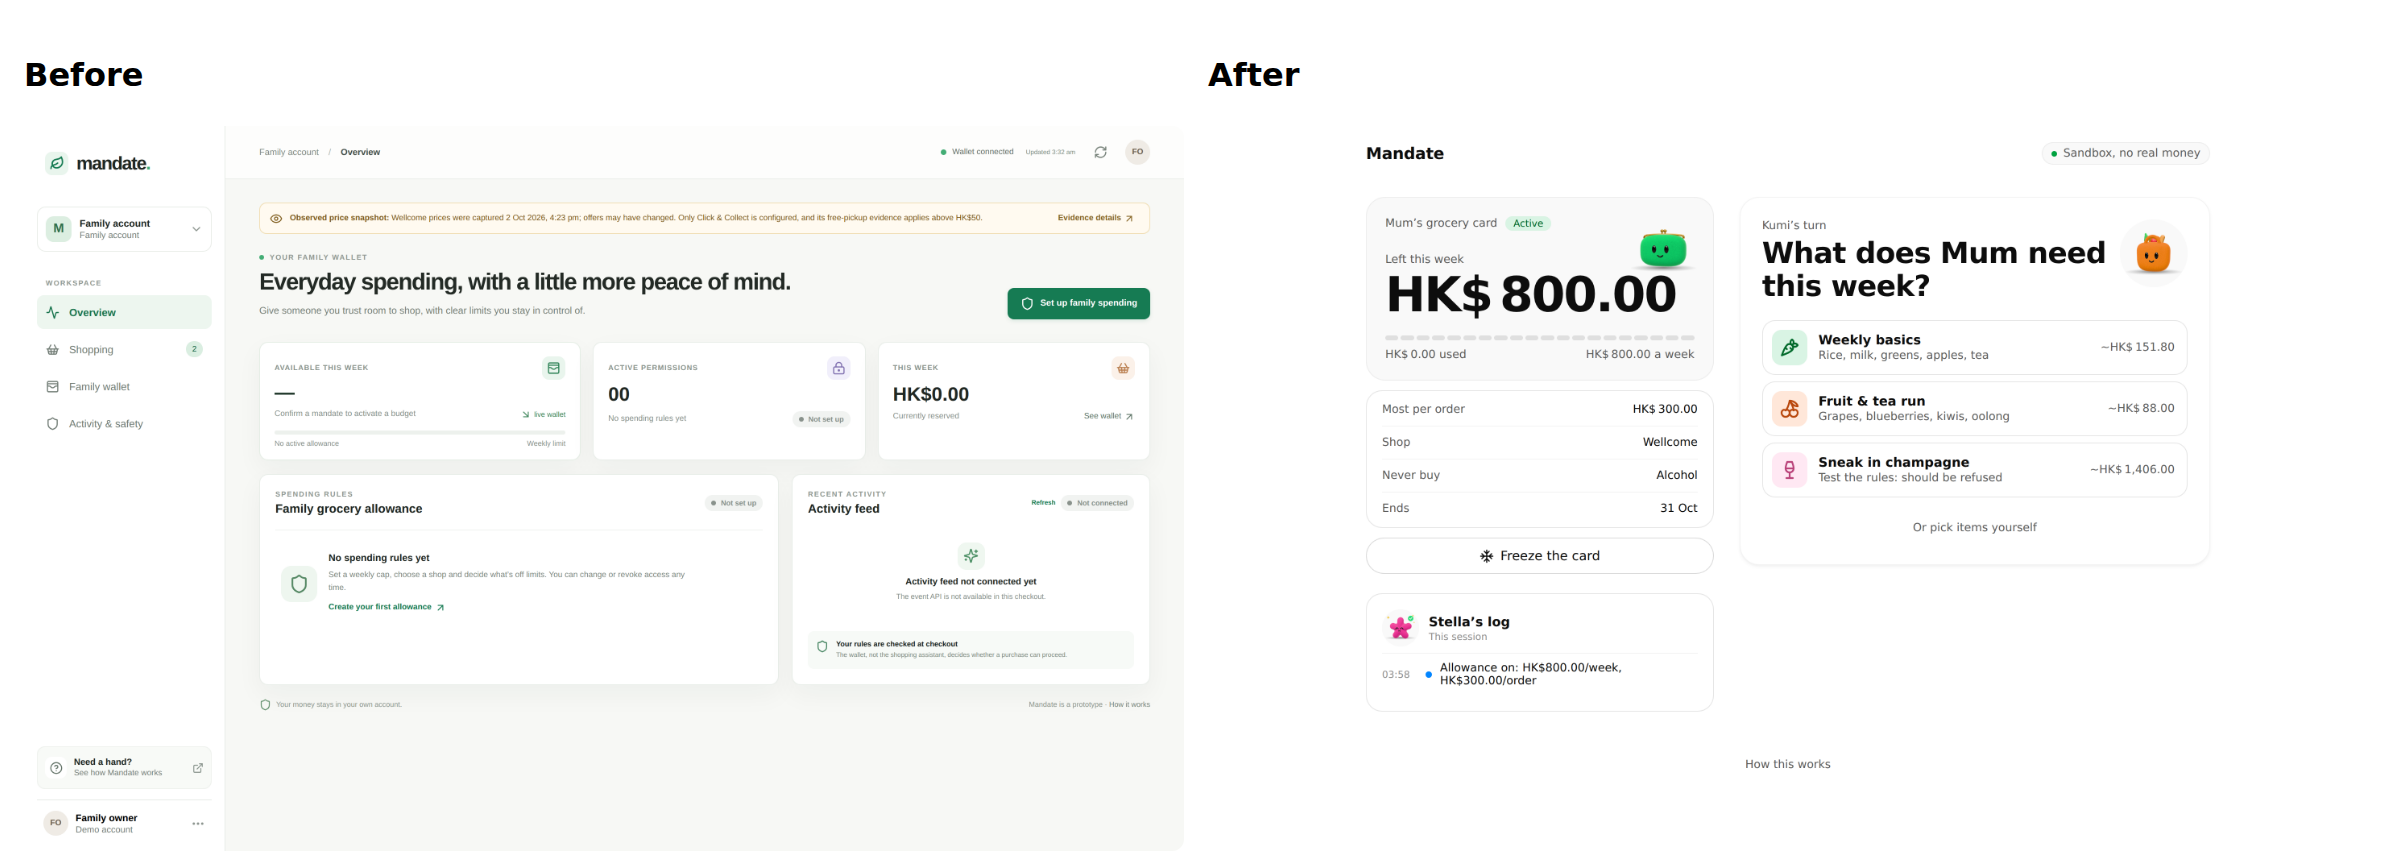
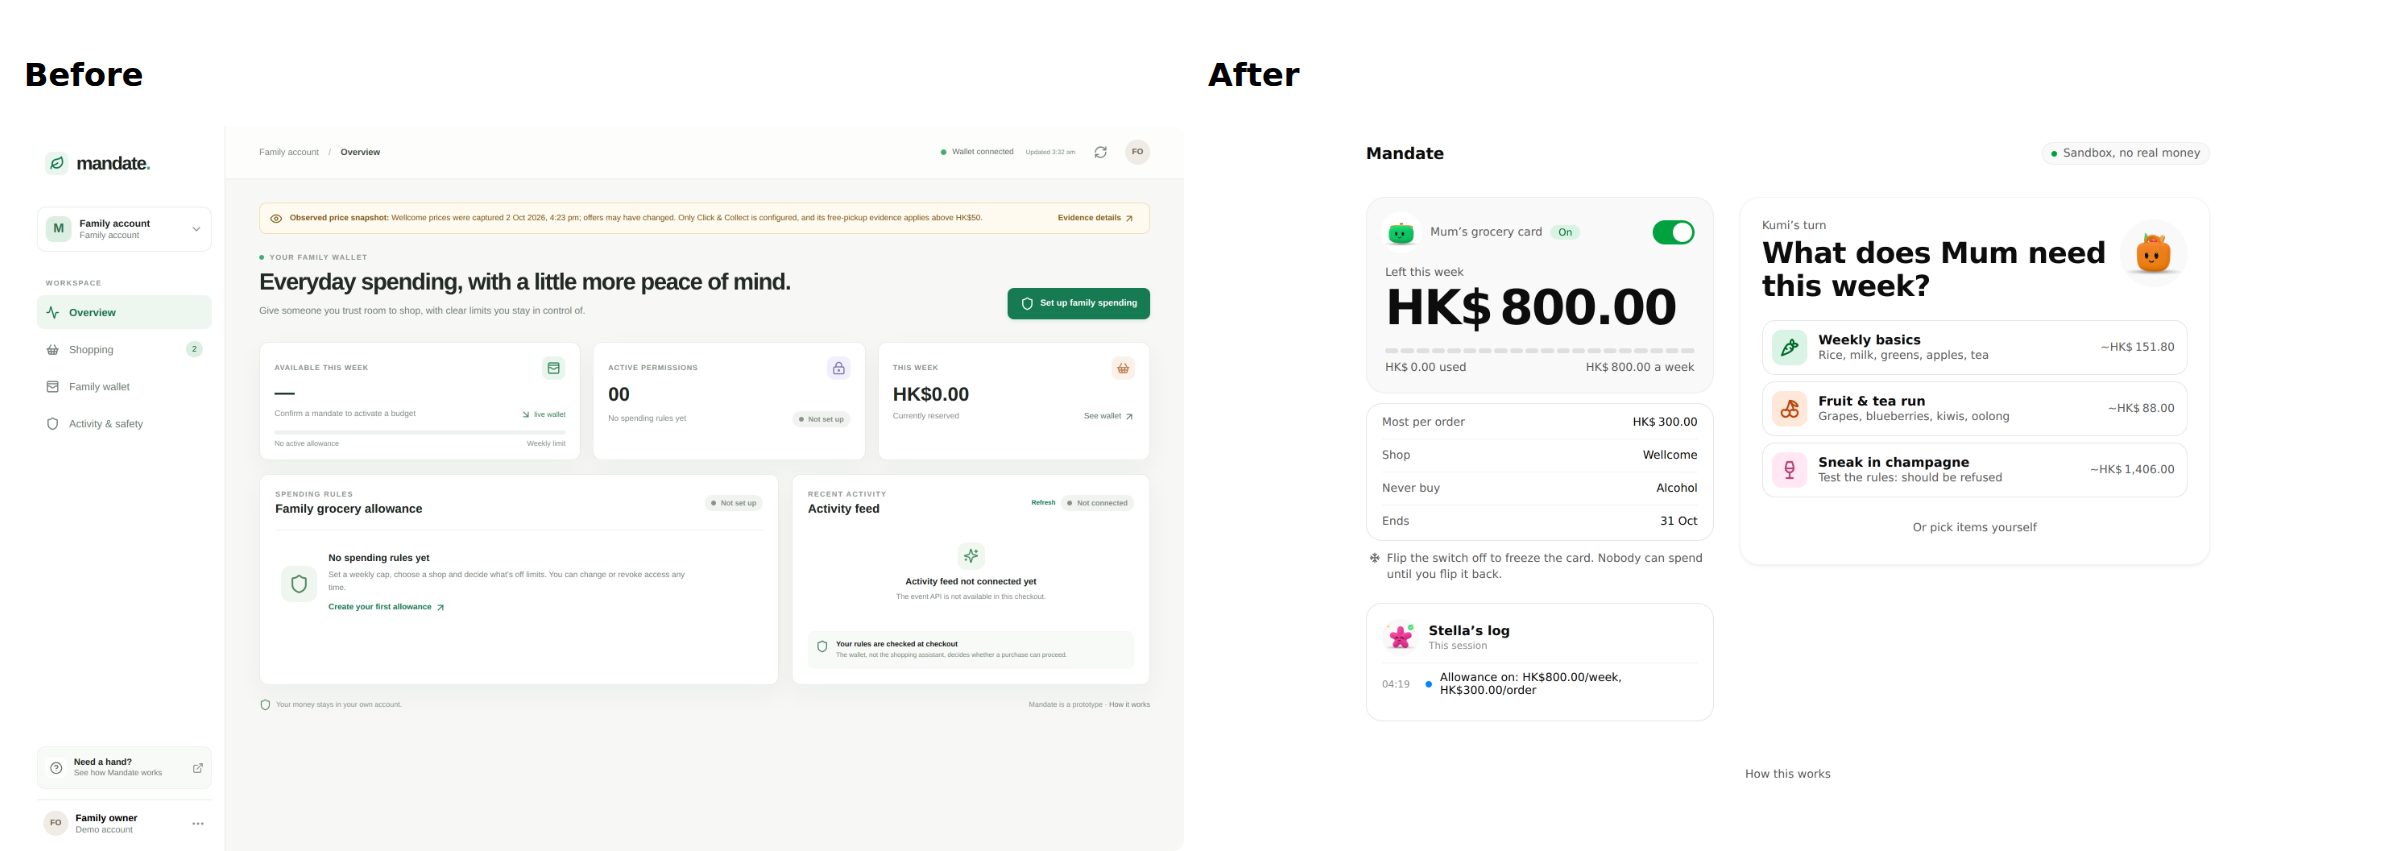
web: use an on/off switch for Mum's card
One switch on the card replaces the freeze and start-again buttons:
off revokes the mandate, on re-activates it with the same rules. The
setup form uses the same switch to turn the card on.

Claude-Session: https://claude.ai/code/session_01LXVsyNnmyhbWTy9EMwCknp

diff --git a/apps/web/src/simple/SimpleApp.tsx b/apps/web/src/simple/SimpleApp.tsx
@@ -81,6 +81,10 @@ function Avatar({ name, state, size = 64, bob = false }: { name: Mascot; state: 
   return <img className={`m2-avatar${bob ? ' m2-bob' : ''}`} src={`/agents/${name}-${state}.png`} alt="" width={size} height={size} />;
 }
 
+function Switch({ on, label, disabled, onChange }: { on: boolean; label: string; disabled?: boolean; onChange: () => void }) {
+  return <button type="button" role="switch" aria-checked={on} aria-label={label} className={`m2-switch${on ? ' on' : ''}`} disabled={disabled} onClick={onChange}><i /></button>;
+}
+
 function Sticker({ name, state, size = 88, tilt = -6 }: { name: Mascot; state: string; size?: number; tilt?: number }) {
   return <span className={`m2-sticker ${name}`} style={{ width: size, height: size, transform: `rotate(${tilt}deg)` }}><img src={`/agents/${name}-${state}.png`} alt="" /></span>;
 }
@@ -170,11 +174,12 @@ export default function SimpleApp() {
   const spent = (period?.paid_minor ?? 0) + (period?.reserved_minor ?? 0);
   const ratio = limit ? Math.min(1, spent / limit) : 0;
 
-  async function activate() {
+  /** Turns the card on with the setup form's values, or with a frozen card's previous rules. */
+  async function activate(previous?: Policy) {
     setError('');
-    const weeklyMinor = Math.round(Number(weekly) * 100);
-    const orderMinor = Math.round(Number(perOrder) * 100);
-    const askMinor = askAbove.trim() ? Math.round(Number(askAbove) * 100) : null;
+    const weeklyMinor = previous ? previous.period_limits[0]?.limit_minor ?? 0 : Math.round(Number(weekly) * 100);
+    const orderMinor = previous ? previous.per_order_limit_minor : Math.round(Number(perOrder) * 100);
+    const askMinor = previous ? previous.approval_above_minor : askAbove.trim() ? Math.round(Number(askAbove) * 100) : null;
     if (!(weeklyMinor > 0) || !(orderMinor > 0) || (askMinor !== null && !(askMinor > 0))) { setError('Use whole HK$ amounts above zero.'); return; }
     const policy: Policy = {
       currency: 'HKD',
@@ -364,7 +369,8 @@ export default function SimpleApp() {
           <div className="m2-ledger-row fixed"><span>Shop</span><b>Wellcome</b></div>
           <div className="m2-ledger-row fixed"><span>Never buy</span><b>Alcohol</b></div>
           <div className="m2-ledger-row fixed"><span>Lasts</span><b>4 weeks</b></div>
-          <button className="m2-cta" onClick={() => void activate()} disabled={busy === 'activate' || online === false}>{busy === 'activate' ? 'Switching on…' : 'Switch on Mum’s card'}<ArrowRight size={18} /></button>
+          <div className="m2-switch-row"><span><b>Mum’s card</b><small>{busy === 'activate' ? 'Switching on…' : 'Off. Flip it on to start.'}</small></span>
+            <Switch on={busy === 'activate'} label="Switch on Mum’s card" disabled={busy === 'activate' || online === false} onChange={() => void activate()} /></div>
           {setupOpen && mandate && <button className="m2-link" onClick={() => setSetupOpen(false)}>Back</button>}
         </div>
       </section>
@@ -372,11 +378,12 @@ export default function SimpleApp() {
       <main className="m2-grid">
         <section className="m2-col m2-area-card">
           <div className={`m2-card ${active ? '' : 'frozen'}`}>
-            <div className="m2-card-top"><span>Mum’s grocery card</span><span className="m2-status">{active ? 'Active' : mandate.status === 'expired' ? 'Expired' : 'Frozen'}</span></div>
+            <div className="m2-card-top"><Sticker name="kip" state={kipState} size={52} tilt={0} /><span>Mum’s grocery card</span><span className="m2-status">{busy === 'freeze' ? 'Freezing…' : busy === 'activate' ? 'Switching on…' : active ? 'On' : mandate.status === 'expired' ? 'Expired' : 'Frozen'}</span>
+              <Switch on={busy === 'activate' || (active && busy !== 'freeze')} label={active ? 'Freeze Mum’s card' : 'Switch Mum’s card back on'} disabled={busy === 'freeze' || busy === 'activate' || online === false}
+                onChange={() => void (active ? freeze() : activate(mandate.policy))} /></div>
             <div className="m2-card-amount"><small>{active ? 'Left this week' : 'Spending is off'}</small><b>{active ? hkd(available) : 'HK$ 0'}</b></div>
             <div className="m2-meter" aria-hidden>{Array.from({ length: 20 }, (_, i) => <i key={i} className={i < Math.round(ratio * 20) ? 'on' : ''} />)}</div>
             <div className="m2-card-foot"><span>{hkd(spent)} used</span><span>{hkd(limit)} a week</span></div>
-            <div className="m2-card-sticker"><Sticker name="kip" state={kipState} size={104} tilt={8} /></div>
           </div>
           <dl className="m2-rules">
             <div><dt>Most per order</dt><dd>{hkd(mandate.policy.per_order_limit_minor)}</dd></div>
@@ -385,9 +392,7 @@ export default function SimpleApp() {
             {mandate.policy.approval_above_minor != null && <div><dt>Ask me first above</dt><dd>{hkd(mandate.policy.approval_above_minor)}</dd></div>}
             <div><dt>Ends</dt><dd>{expires}</dd></div>
           </dl>
-          {active
-            ? <button className="m2-freeze" onClick={() => void freeze()} disabled={busy === 'freeze'}><Snowflake size={18} />{busy === 'freeze' ? 'Freezing…' : 'Freeze the card'}</button>
-            : <button className="m2-cta" onClick={() => setSetupOpen(true)}>Start a new allowance<ArrowRight size={18} /></button>}
+          <p className="m2-switch-hint"><Snowflake size={14} />{active ? 'Flip the switch off to freeze the card. Nobody can spend until you flip it back.' : 'Flip the switch to turn the card back on with the same rules.'}</p>
         </section>
 
         <section className="m2-col m2-area-feed">

diff --git a/apps/web/src/simple/simple.css b/apps/web/src/simple/simple.css
@@ -63,17 +63,17 @@ button:disabled{cursor:not-allowed;opacity:.4}
 
 /* Card */
 .m2-card{position:relative;padding:calc(var(--spacing)*6);border-radius:var(--radius-4xl);background:var(--color-surface-secondary);box-shadow:inset 0 0 0 1px var(--color-border-subtle)}
-.m2-card-top{display:flex;align-items:center;gap:10px;font-size:var(--font-text-sm-size);font-weight:var(--font-weight-medium);color:var(--color-text-secondary)}
+.m2-card-top{display:flex;align-items:center;gap:10px;position:relative;z-index:1;font-size:var(--font-text-sm-size);font-weight:var(--font-weight-medium);color:var(--color-text-secondary)}
 .m2-status{padding:2px 10px;border-radius:var(--radius-full);background:var(--color-background-success-soft);color:var(--color-text-success);font-size:12px}
 .frozen .m2-status{background:var(--gray-100);color:var(--color-text-secondary)}
-.m2-card-amount{margin:28px 0 20px}
+.m2-card-amount{margin:22px 0 20px}
 .m2-card-amount small{display:block;font-size:var(--font-text-sm-size);color:var(--color-text-secondary);margin-bottom:6px}
 .m2-card-amount b{display:block;font-weight:var(--font-weight-semibold);font-size:clamp(40px,6vw,var(--font-heading-4xl-size));letter-spacing:-.035em;line-height:1;font-variant-numeric:tabular-nums}
 .frozen .m2-card-amount b{color:var(--color-text-tertiary)}
 .m2-meter{display:grid;grid-template-columns:repeat(20,1fr);gap:3px;margin-bottom:10px}
 .m2-meter i{height:6px;border-radius:var(--radius-full);background:var(--gray-150)}.m2-meter i.on{background:var(--green-500)}
 .m2-card-foot{display:flex;justify-content:space-between;font-size:var(--font-text-sm-size);color:var(--color-text-secondary);font-variant-numeric:tabular-nums}
-.m2-card-sticker{position:absolute;top:14px;right:14px}
+.m2-card-sticker{position:absolute;top:64px;right:14px}
 .m2-card-sticker .m2-sticker{background:transparent;width:96px!important;height:96px!important}
 .m2-rules{margin:0;padding:4px 20px;border-radius:var(--radius-3xl);box-shadow:inset 0 0 0 1px var(--color-border)}
 .m2-rules div{display:flex;justify-content:space-between;gap:10px;padding:12px 0;border-bottom:1px solid var(--color-border-subtle);font-size:var(--font-text-sm-size)}
@@ -147,3 +147,16 @@ button:disabled{cursor:not-allowed;opacity:.4}
 
 @media(max-width:480px){.m2-panel{padding:20px}.m2-card{padding:20px}.m2-setup-form{padding:20px}.m2-pick-price{display:none}.m2-card-sticker .m2-sticker{width:76px!important;height:76px!important}}
 @media(prefers-reduced-motion:reduce){.m2-bob,.m2-dots i,.m2-stamp{animation:none}}
+
+/* On/off switch */
+.m2-switch{position:relative;flex:none;width:52px;height:30px;margin-left:auto;border-radius:var(--radius-full);background:var(--gray-200);transition:background .2s}
+.m2-switch i{position:absolute;top:3px;left:3px;width:24px;height:24px;border-radius:50%;background:var(--gray-0);box-shadow:var(--shadow-100);transition:transform .2s}
+.m2-switch.on{background:var(--green-500)}.m2-switch.on i{transform:translateX(22px)}
+.m2-switch:focus-visible{outline:2px solid var(--gray-1000);outline-offset:2px}
+.m2-switch:disabled{opacity:.6}
+.m2-switch-row{display:flex;align-items:center;gap:16px;margin-top:24px;padding:16px 18px;border-radius:var(--radius-2xl);background:var(--color-surface-secondary)}
+.m2-switch-row span{display:grid;gap:2px;flex:1}.m2-switch-row small{font-size:var(--font-text-sm-size);color:var(--color-text-secondary)}
+.m2-switch-row .m2-switch{width:60px;height:34px}.m2-switch-row .m2-switch i{width:28px;height:28px}.m2-switch-row .m2-switch.on i{transform:translateX(26px)}
+.m2-switch-hint{display:flex;align-items:flex-start;gap:8px;margin:0;padding:0 4px;font-size:var(--font-text-sm-size);color:var(--color-text-secondary);line-height:1.45}.m2-switch-hint svg{flex:none;margin-top:2px}
+@media(max-width:480px){.m2-cast{gap:8px;flex-wrap:nowrap}.m2-cast figure{width:auto;flex:1}}
+.m2-card-top .m2-sticker{background:var(--color-surface);margin:-6px 0 -6px -6px}
